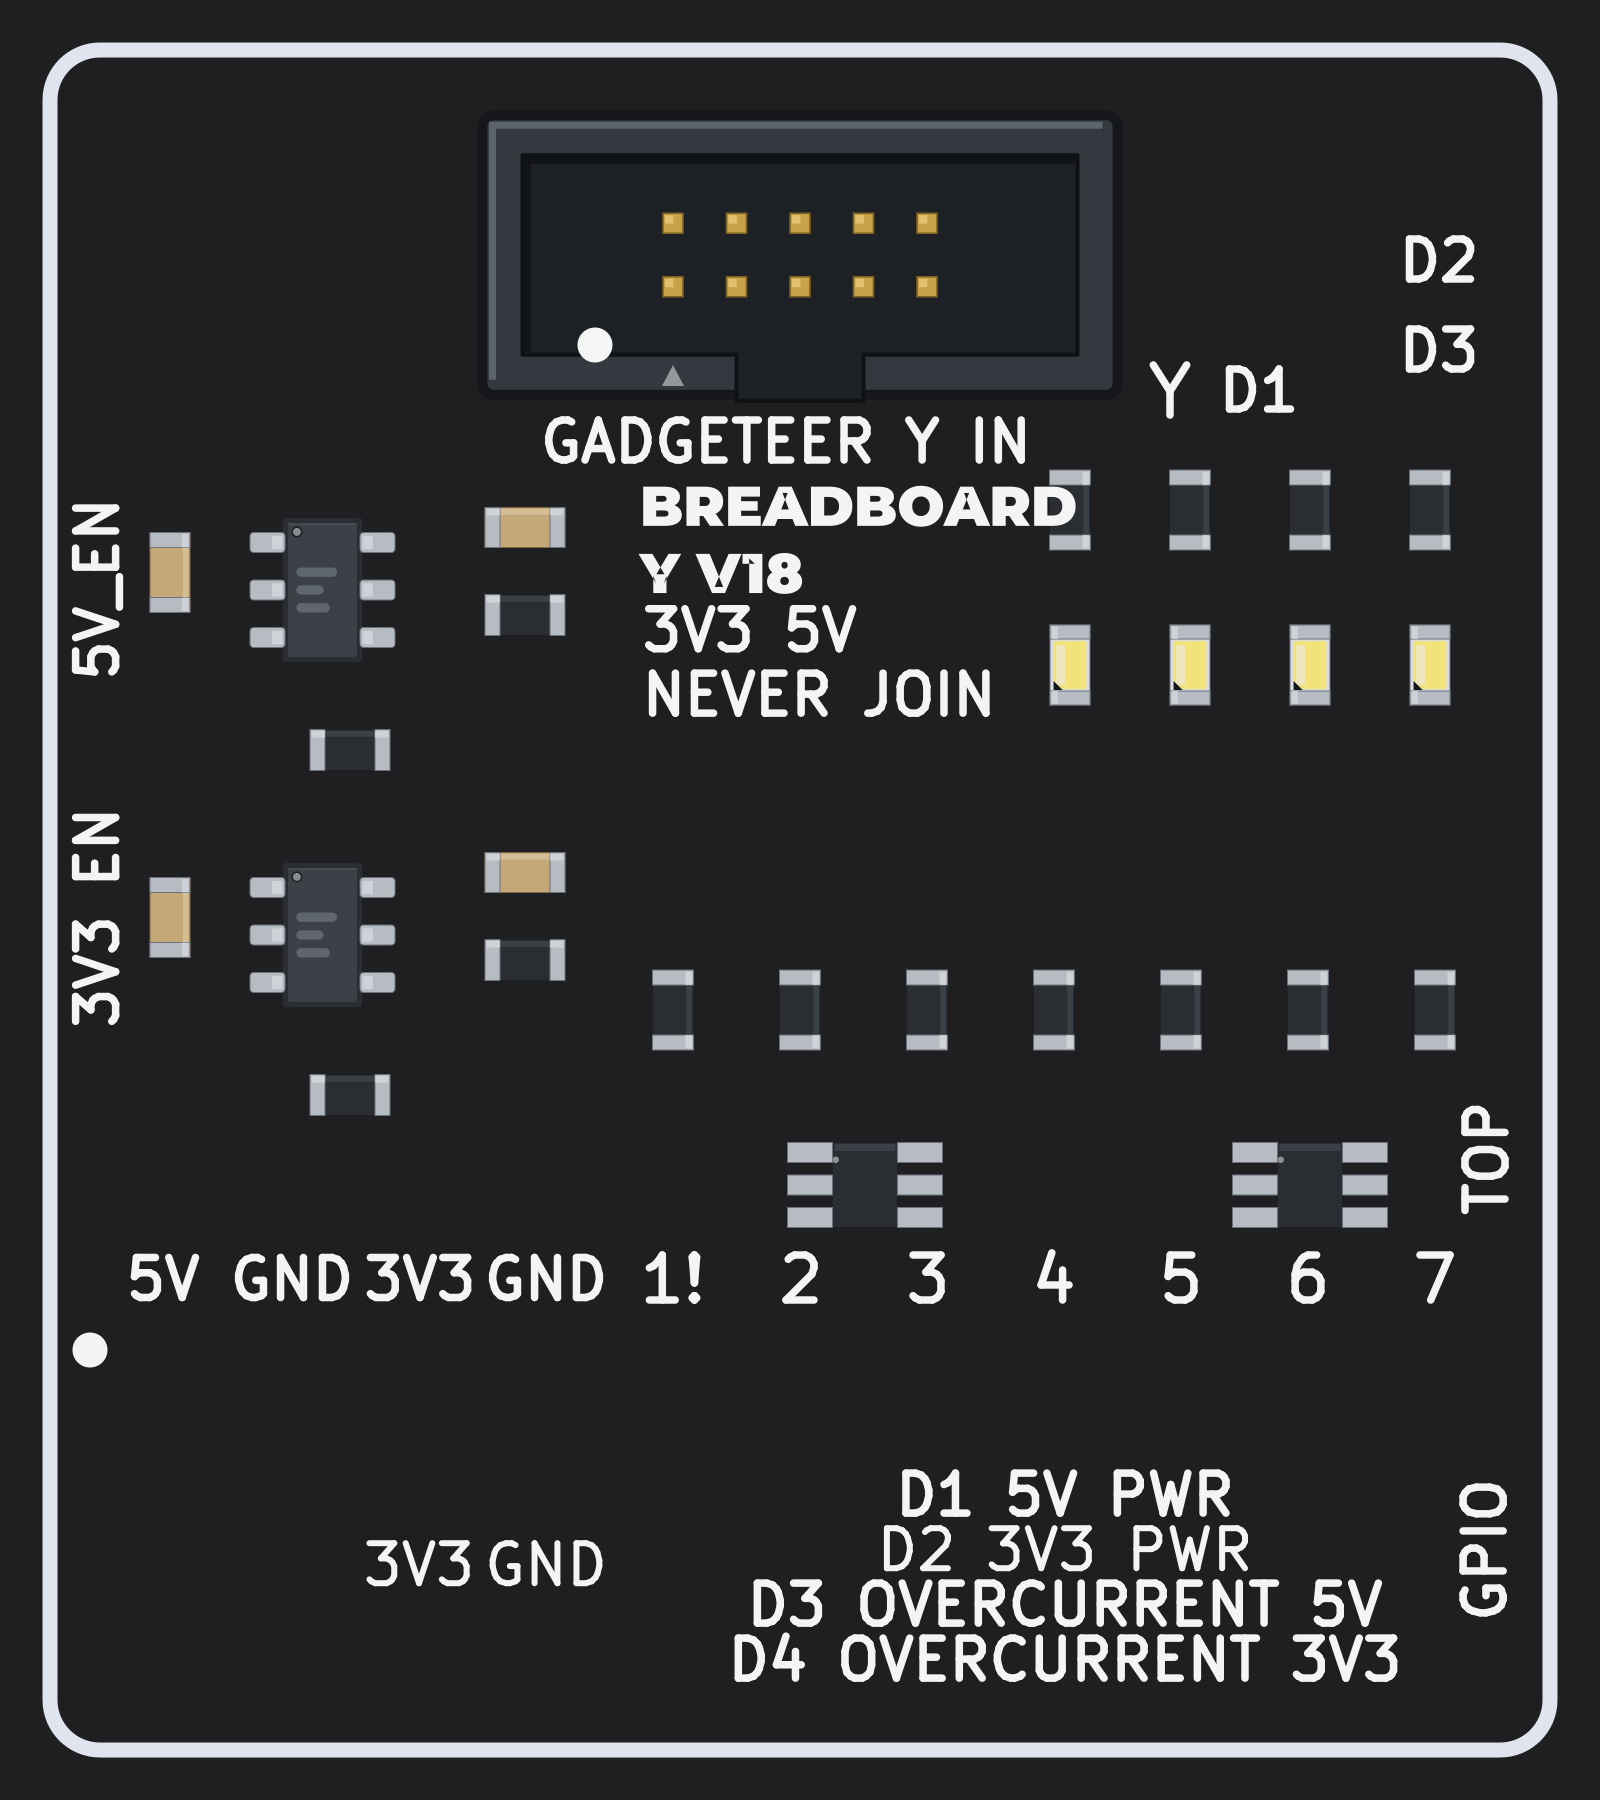
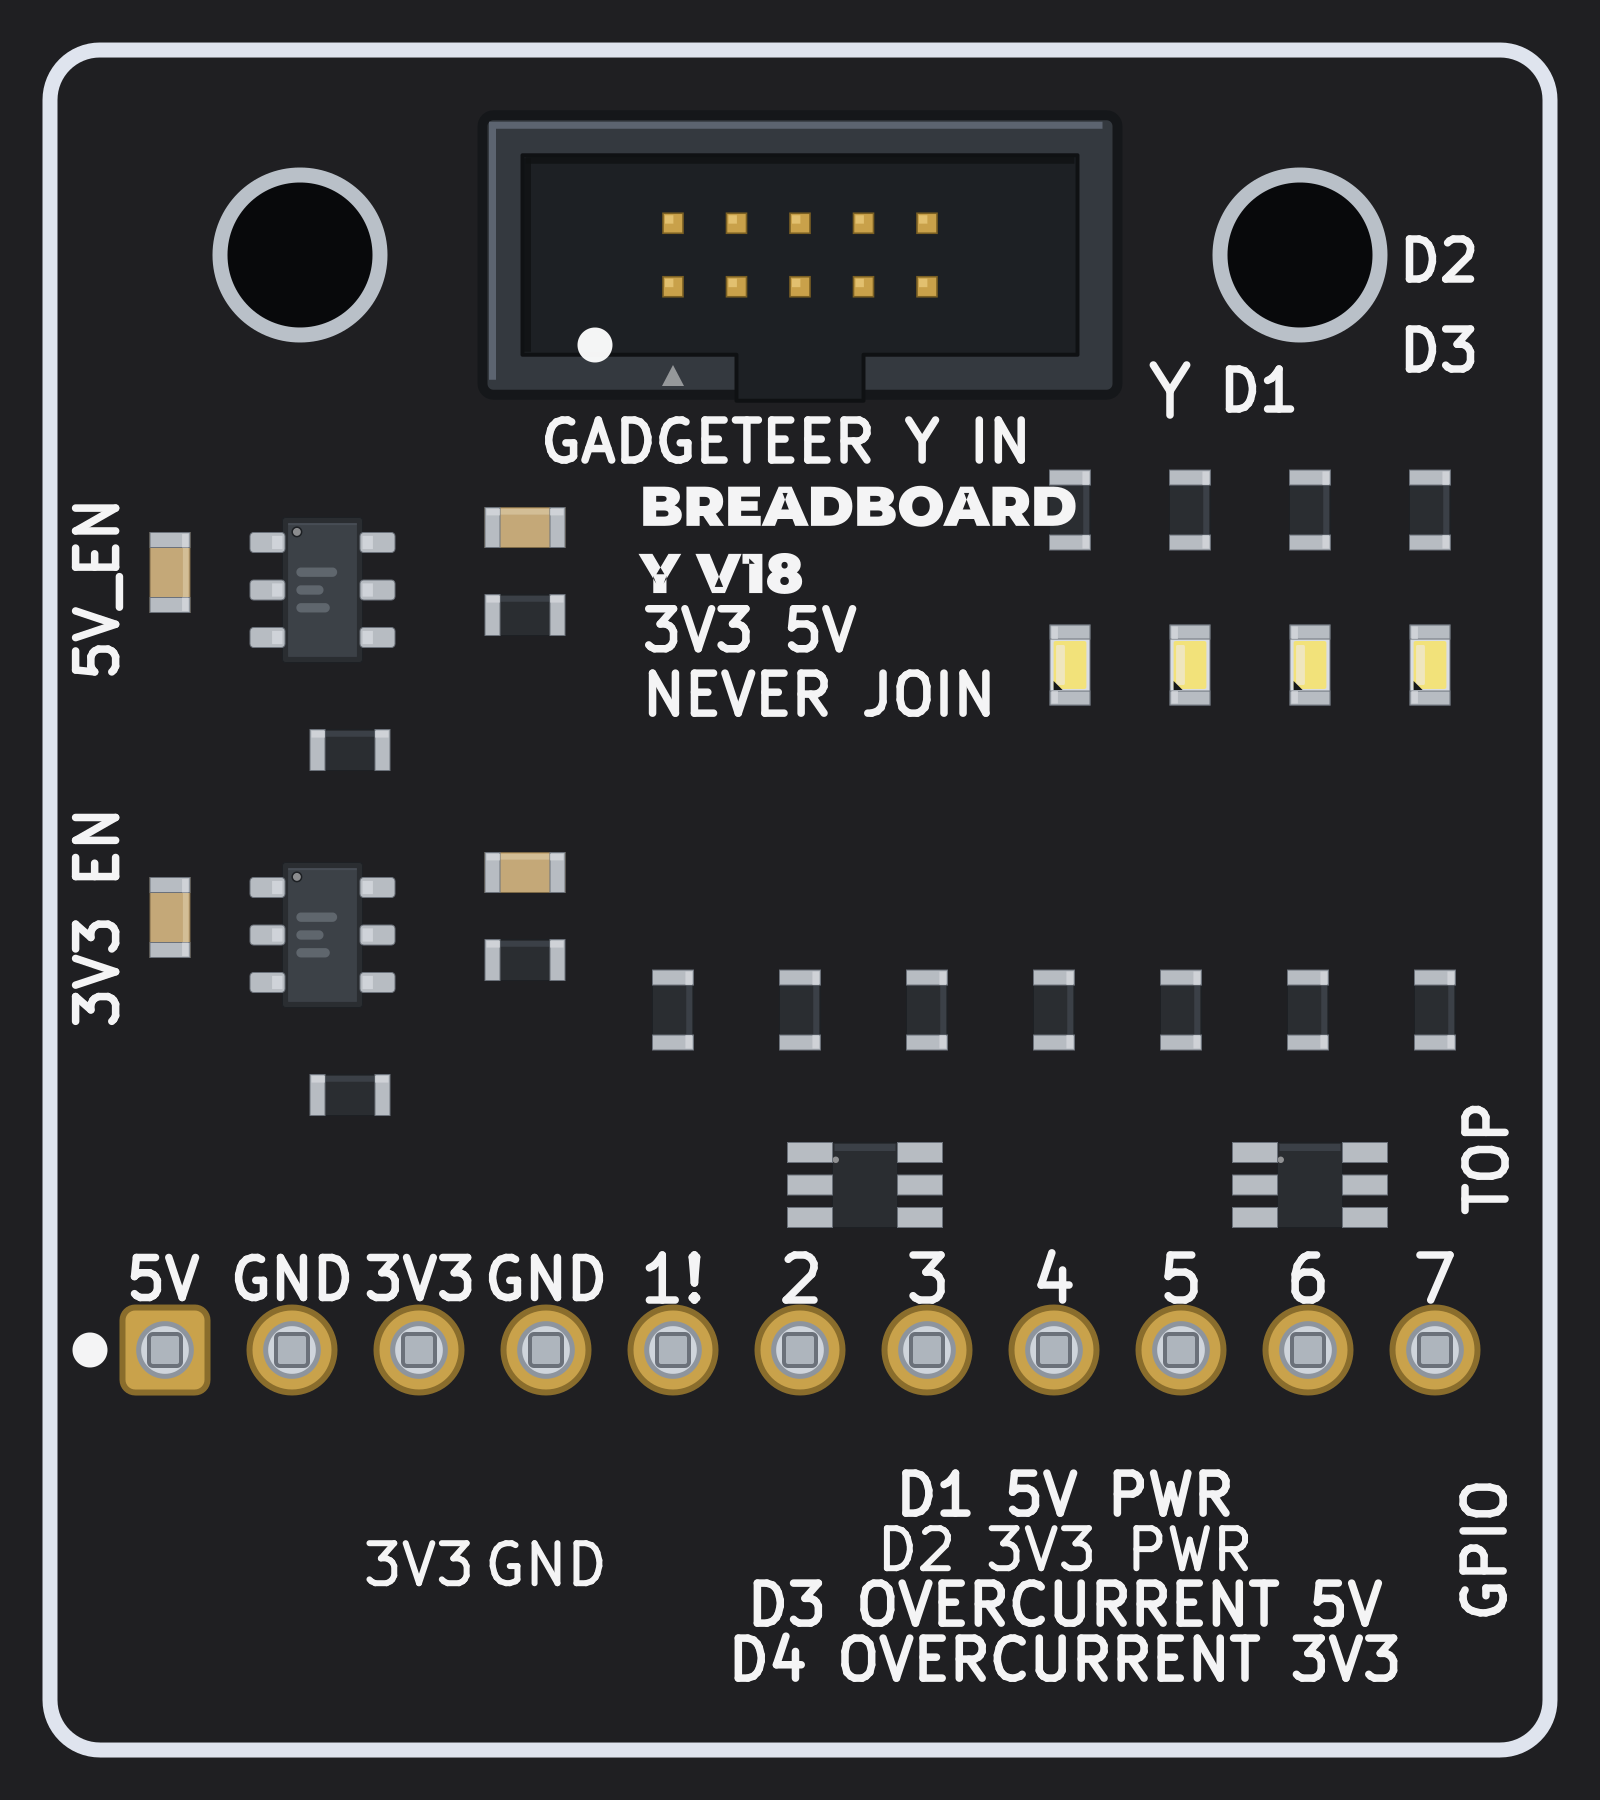
Add mounting holes and pin pads to ten main board drawings

Changed region(s): [[0.0625, 0.7156, 0.9375, 0.7778], [0.75, 0.0933, 0.875, 0.1867], [0.125, 0.0933, 0.25, 0.1867]]

diff --git a/CHANGELOG.md b/CHANGELOG.md
@@ -8,7 +8,7 @@ History: see CHANGELOG.archive.md.
 
 ### Fixed
 
-- Extension board drawings now show the solder pads of underside-mounted pin headers, plated test points and prototyping holes.
+- Extension board drawings now show the solder pads of underside-mounted pin headers, plated test points and prototyping holes. The main drawing on ten board pages now includes these features.
 - Extension board drawings on the board directory and board pages now show their mounting and cable-tie holes.
 
 ### Changed
